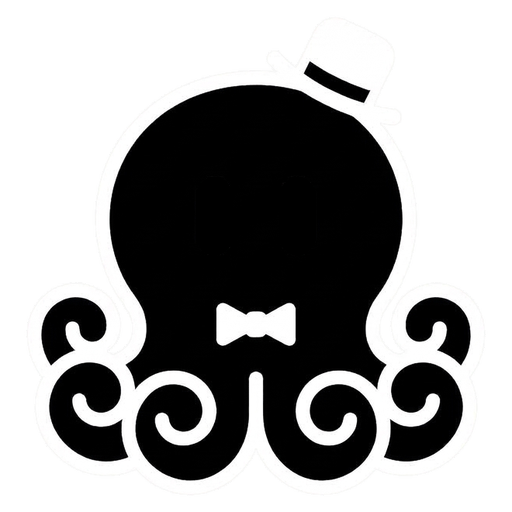
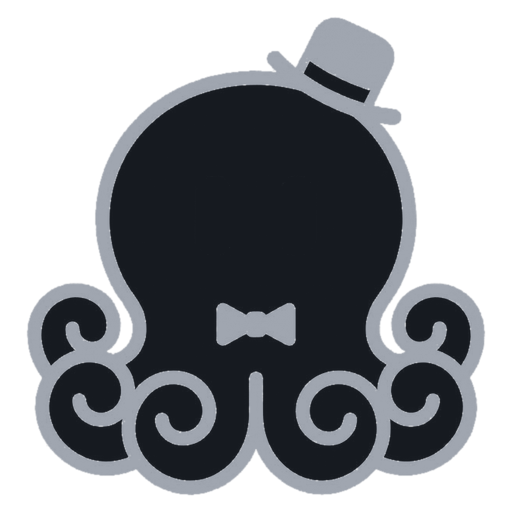
fix(brand): calibra contraste do mascote dark mode com tom soft slate (#A0A6B0) e corpo #161A20

diff --git a/mobile/src/components/common/VitoMascot.tsx b/mobile/src/components/common/VitoMascot.tsx
@@ -210,7 +210,7 @@ const styles = StyleSheet.create({
     backgroundColor: '#000000',
   },
   eyeDark: {
-    backgroundColor: '#FFFFFF',
+    backgroundColor: '#A0A6B0',
   },
 });
 
